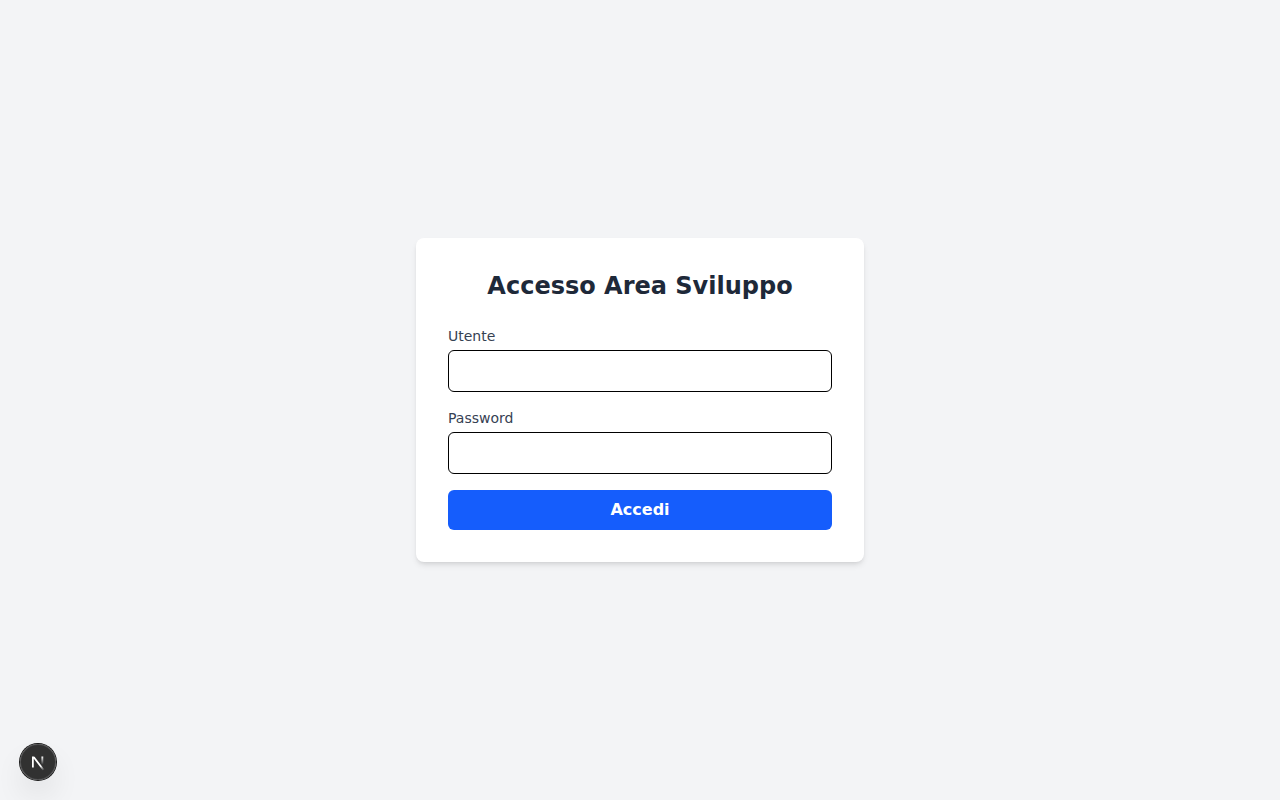
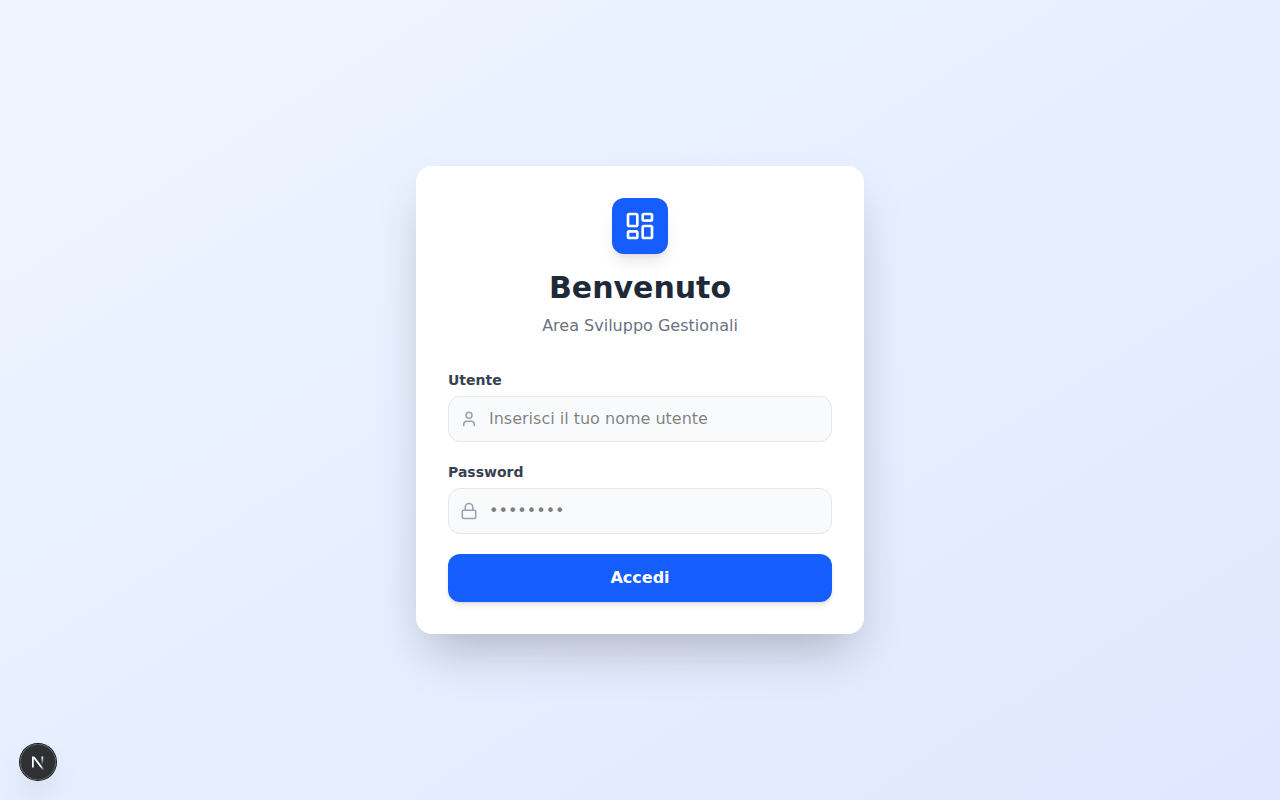
docs: update README with new features and generated screenshots
- Refreshed README.md to accurately document the newly added features such as roles, project duplication, bulk offset, automated email notifications, and UI improvements.
- Generated and included new screenshots for the dashboard, login, project details, and trash views using Playwright to reflect current application state.

diff --git a/README.md b/README.md
@@ -4,15 +4,22 @@ Un'applicazione web sviluppata con **Next.js**, **Prisma** e database (**SQLite*
 
 ## 🌟 Funzionalità
 
-- **Autenticazione Sicura**: Login tramite credenziali configurabili (amministratore e utenti) protetto da JWT (JSON Web Tokens).
-- **Gestione Progetti**:
-  - Creazione, visualizzazione ed eliminazione dei progetti.
-  - Assegnazione di codici univoci e stati personalizzati.
-- **Gestione Task**:
-  - Aggiunta di task con date di inizio e fine.
-  - Collegamento di sotto-elementi (righe) ai task (testo, numeri, allegati, date).
-- **Diagramma di Gantt Integrato**: Visualizzazione interattiva dei task nel tempo, con supporto alle viste per giorno, settimana e mese.
-- **Design Moderno e Responsivo**: Interfaccia pulita e intuitiva realizzata con **Tailwind CSS**.
+- **Autenticazione Sicura e Ruoli**: Login tramite credenziali protetto da JWT. Supporto ruoli (Admin e User) per visibilità controllata su progetti e task.
+- **Gestione Avanzata Progetti**:
+  - Creazione, visualizzazione, modifica stato.
+  - Calcolo automatico avanzamento globale.
+  - **Duplicazione rapida**: Duplica interi progetti con tutti i task (azzerandone stato e valori per ripartire da zero).
+  - Eliminazione tramite "Soft Delete" (Cestino dedicato per recupero).
+- **Gestione Potenziata Task**:
+  - Aggiunta di task con date di inizio, fine, colore e dipendenze.
+  - Collegamento di sotto-elementi (righe) ai task (testo, numeri, allegati fisici, date).
+  - Sincronizzazione automatica tra stato (es. Completato) e progresso (100%).
+  - Spostamento di massa (Bulk Offset) delle date dei task.
+- **Notifiche Email Automatiche**: Pattern "Watchers" per ricevere email alla creazione, modifica e notifica giornaliera automatica (tramite cron) per i task in scadenza.
+- **Diagramma di Gantt Interattivo**: Visualizzazione temporale tramite `frappe-gantt`, con drag & drop disabilitato per dipendenze automatiche, viste dinamiche (giorno, settimana, mese).
+- **UI Moderna e Responsiva "Premium"**:
+  - Layout ibridi (Tabelle su Desktop, Card compattate "schiacciate" su Mobile).
+  - Finestre modali e UI pulita in Tailwind CSS v4.
 
 ---
 
@@ -22,13 +29,21 @@ Un'applicazione web sviluppata con **Next.js**, **Prisma** e database (**SQLite*
 Accesso protetto per gli utenti dell'applicazione.
 ![Pagina di Login](./public/screenshots/login.png)
 
-### 2. Dashboard dei Progetti
-Panoramica completa dei progetti attivi, con possibilità di crearne di nuovi.
-![Dashboard dei Progetti](./public/screenshots/projects_dashboard.png)
+### 2. Dashboard Interattiva
+Panoramica completa dei progetti attivi assegnati all'utente e task in evidenza.
+![Dashboard dei Progetti](./public/screenshots/dashboard.png)
 
 ### 3. Dettagli Progetto e Diagramma di Gantt
-Gestione dei task di un singolo progetto e visualizzazione temporale tramite Gantt.
+Gestione avanzata dei task, statistiche di avanzamento, duplicazione e vista Gantt.
 ![Dettagli Progetto e Gantt](./public/screenshots/project_detail.png)
+
+### 4. Gestione Dettaglio Task
+Modal dedicata per gestire lo stato, l'avanzamento, le dipendenze e gli allegati.
+![Dettagli Task](./public/screenshots/task_detail.png)
+
+### 5. Cestino (Soft Delete)
+Sezione sicura per visualizzare, ripristinare o eliminare permanentemente i progetti cancellati.
+![Cestino Progetti](./public/screenshots/trash.png)
 
 ---
 
